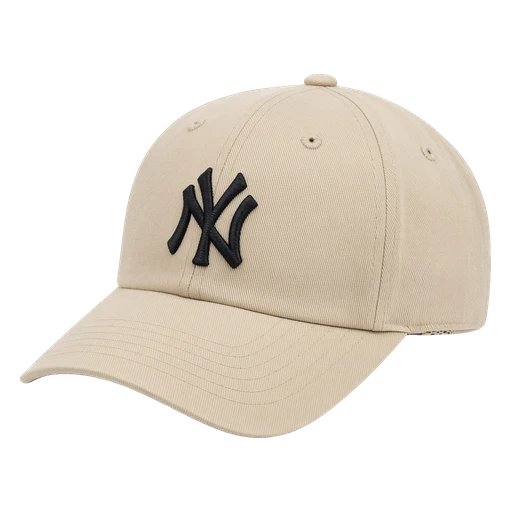
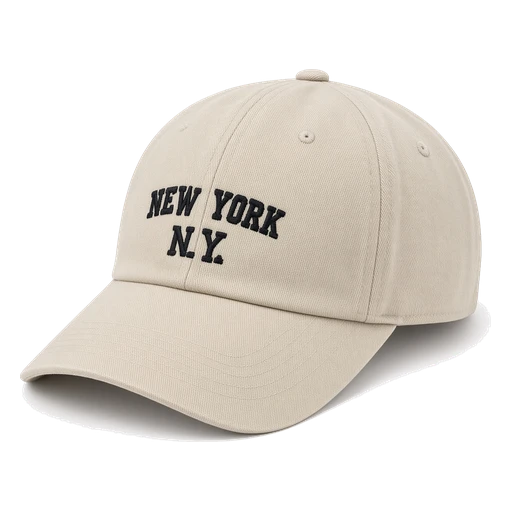
guarda-roupa: 210 pecas dos prints, joias e chapeus separados, sub-filtros

diff --git a/js/data.js b/js/data.js
@@ -2,9 +2,14 @@
 window.CATALOGO = [
 ["item_114","Blusa de girassóis","top","alça","V"],
 ["p085","Blusa de tule bordada preta","top","alça","VOP"],
+["new_blusa_vinho","Blusa frente única vinho","top","alça","VOP",2,"top de amarrar no pescoço com tiras finas, decote drapeado, costas abertas, tecido duna fosco vinho"],
 ["p005","Blusa preta decote V manga longa","top","alça","OIP"],
 ["p025","Blusa preta decote V manga longa","top","alça","OIP"],
 ["p072","Blusa preta decote V manga longa","top","alça","OIP"],
+["new_body_alca_marrom","Body de alça marrom","top","alça","VOIP",2,"body de alcinha fina marrom chocolate, decote reto, malha lisa fosca"],
+["new_body_alca_preto","Body de alça preto","top","alça","VOIP",2,"body de alcinha fina preto, decote reto, malha lisa fosca"],
+["new_body_regata_branco","Body regata branco","top","alça","VOIP",2,"body regata branco liso, gola redonda alta, cava alta tipo nadador, malha fosca"],
+["new_body_regata_preto","Body regata preto","top","alça","VOIP",2,"body regata preto liso, gola redonda alta, cava alta tipo nadador, malha canelada fosca"],
 ["p134","Corselet floral bege","top","alça","VP"],
 ["p066","Corselet terracota","top","alça","VP"],
 ["p091","Corselet vermelho acetinado","top","alça","VOP"],
@@ -42,6 +47,7 @@ window.CATALOGO = [
 ["p023","Camiseta preta estampada","top","manga curta","VOP"],
 ["p107","Blusa azul com bolsos","top","manga longa","OP"],
 ["p043","Blusa branca manga bufante","top","manga longa","VOP"],
+["new_blusa_tule_marrom_botoes","Blusa de tule marrom com botões","top","manga longa","VOP",2,"tule transparente marrom terracota, decote V com botões forrados, babados em cascata na frente e nas mangas"],
 ["p113","Blusa de tule transparente","top","manga longa","OP"],
 ["p019","Blusa preta com laço","top","manga longa","OP"],
 ["p011","Blusa preta manga bufante","top","manga longa","OP"],
@@ -51,6 +57,7 @@ window.CATALOGO = [
 ["p051","Blusa vermelha drapeada","top","manga longa","VOP"],
 ["p086","Blusa vermelha sem manga","top","manga longa","VP"],
 ["new_body_marrom","Body de tule marrom","top","manga longa","OIP",2,"tule transparente marrom, gola alta, manga longa, corpo de body cavado; o tecido tem que aparecer transparente, não pode virar malha opaca"],
+["new_body_tule_preto","Body de tule rendado preto","top","manga longa","OIP",2,"tule preto rendado transparente, gola alta, manga longa, com top preto opaco por baixo no busto"],
 ["p136","Camisa bege de linho","top","manga longa","VP"],
 ["p047","Camisa branca manga 3/4","top","manga longa","VOP"],
 ["g035","Camisa camel oversized","top","manga longa","OP"],
@@ -59,6 +66,7 @@ window.CATALOGO = [
 ["p098","Camisa listrada com flores","top","manga longa","VP"],
 ["p110","Camisa xadrez preto e branco","top","manga longa","OIP"],
 ["p050","Cropped branco manga bufante","top","manga longa","VOP"],
+["new_cropped_verde_bolinhas","Cropped verde de bolinhas","top","manga longa","VOP",2,"cropped verde militar de tule com bolinhas em relevo plumeti, decote V franzido, manga bufante com punho"],
 ["p154","Gola alta caramelo sem manga","top","manga longa","OP"],
 ["new_golaalta_marrom","Gola alta marrom","top","manga longa","OI",2,"malha canelada marrom escuro, gola alta, manga longa, caimento justo"],
 ["new_golaalta_nude","Gola alta nude","top","manga longa","OI",2,"malha lisa nude, gola alta, manga longa, caimento justo"],
@@ -66,6 +74,8 @@ window.CATALOGO = [
 ["new_golaalta_chumbo","Gola alta preta","top","manga longa","OI",2,"canelada preta de verdade, não cinza nem chumbo; malha canelada fina, gola alta, manga longa, caimento justo"],
 ["p013","Gola alta preta canelada","top","manga longa","OI"],
 ["p000","Gola alta preta cropped","top","manga longa","OI"],
+["new_golaalta_vinho","Gola alta vinho","top","manga longa","OI",2,"malha canelada vinho, gola alta, manga longa, caimento justo"],
+["new_golaalta_violeta","Gola alta violeta","top","manga longa","OIP",2,"malha lisa violeta, gola alta, manga longa"],
 ["p058","Suéter branco de tricô","top","manga longa","OI"],
 ["p049","Top branco com laço","top","manga longa","VP"],
 ["p114","Calça bege de alfaiataria","bottom","calça","VOP"],
@@ -134,7 +144,9 @@ window.CATALOGO = [
 ["p124","Blazer xadrez marrom","casaco","blazer","OI"],
 ["p127","Blazer xadrez marrom","casaco","blazer","OI"],
 ["p056","Cardigã creme de malha","casaco","cardigã","OP"],
+["new_colete_branco","Colete off-white","casaco","colete","VOIP",2,"colete de alfaiataria off-white sem manga, decote V, quatro botões brancos, barra em bico"],
 ["p143","Jaqueta acolchoada bege","casaco","jaqueta","OI"],
+["new_jaqueta_couro_marrom","Jaqueta de couro marrom","casaco","jaqueta","OI",2,"couro marrom, modelo motociclista com zíper diagonal e lapela"],
 ["p042","Jaqueta de couro preta","casaco","jaqueta","OI"],
 ["p105","Jaqueta jeans clara","casaco","jaqueta","VOP"],
 ["p106","Jaqueta militar com pelo","casaco","jaqueta","OI"],
@@ -188,7 +200,7 @@ window.CATALOGO = [
 ["p194","Colar dourado com medalha","joia","colar","VOIP"],
 ["p209","Colar dourado duplo fino","joia","colar","VOIP"],
 ["p183","Colar dourado três fios","joia","colar","VOIP"],
-["new_bone_ny","Boné bege NY","chapeu","boné","VOIP",2,"boné aba curva bege claro com NY bordado em preto"],
-["new_bone_roxo","Boné roxo","chapeu","boné","VOIP",2,"boné aba curva roxo liso, sem estampa"],
+["new_bone_ny","Boné bege NEW YORK","chapeu","boné","VOIP",2,"boné aba curva bege cru com bordado preto em duas linhas NEW YORK e N.Y."],
+["new_bone_roxo","Boné roxo too busy making money","chapeu","boné","VOIP",2,"boné aba curva roxo magenta com bordado branco em duas linhas, too busy making money, fonte serifada minúscula"],
 ["p003","Gorro preto","chapeu","gorro","I"]
 ];

diff --git a/js/app.js b/js/app.js
@@ -20,7 +20,7 @@
   var SUBS = {
     top: ["alça", "manga curta", "manga longa"],
     bottom: ["calça", "short", "saia"],
-    casaco: ["blazer", "jaqueta", "sobretudo", "cardigã", "kimono"],
+    casaco: ["blazer", "jaqueta", "sobretudo", "cardigã", "kimono", "colete"],
     calcado: ["tênis", "bota", "sandália", "sapato", "chinelo"],
     acessorio: ["bolsa", "cinto", "óculos", "lenço"],
     joia: ["colar", "brinco", "relógio"],
@@ -345,7 +345,7 @@
     var b = el("button", "tile" + (marcado ? " on" : ""));
     b.setAttribute("aria-label", it.nome);
     var im = el("img"); im.src = it.src; im.alt = it.nome; im.loading = "lazy"; b.appendChild(im);
-    if (it.novo) b.appendChild(el("span", "nu"));
+    if (it.pendente) b.appendChild(el("span", "nu"));
     if (it.pendente) b.appendChild(el("span", "tag", "tratar"));
     b.appendChild(el("span", "cap", it.nome));
     b.onclick = onClick; return b;
@@ -476,7 +476,7 @@
 
   function abrirPeca(it) {
     abrirModal(function (m) {
-      cabeca(m, it.nome, it.sub + (it.novo ? " · nova" : ""));
+      cabeca(m, it.nome, it.sub + (it.pendente ? " · sem tratamento" : ""));
       var hero = el("div", "hero"); var im = el("img"); im.src = it.src; im.alt = it.nome; hero.appendChild(im); m.appendChild(hero);
       var f = el("div", "facts");
       [["Categoria", (CATS.filter(function (c) { return c.id === it.cat; })[0] || {}).nome || it.cat],

diff --git a/index.html b/index.html
@@ -19,7 +19,7 @@
     <div class="top-in">
       <div class="brand">
         <h1 class="d1">Guarda-<br>Roupa</h1>
-        <span class="sticker" id="count">191 peças</span>
+        <span class="sticker" id="count">203 peças</span>
       </div>
       <div class="top-acts">
         <button class="sq" id="btnAdd" title="Adicionar peça" aria-label="Adicionar peça">
